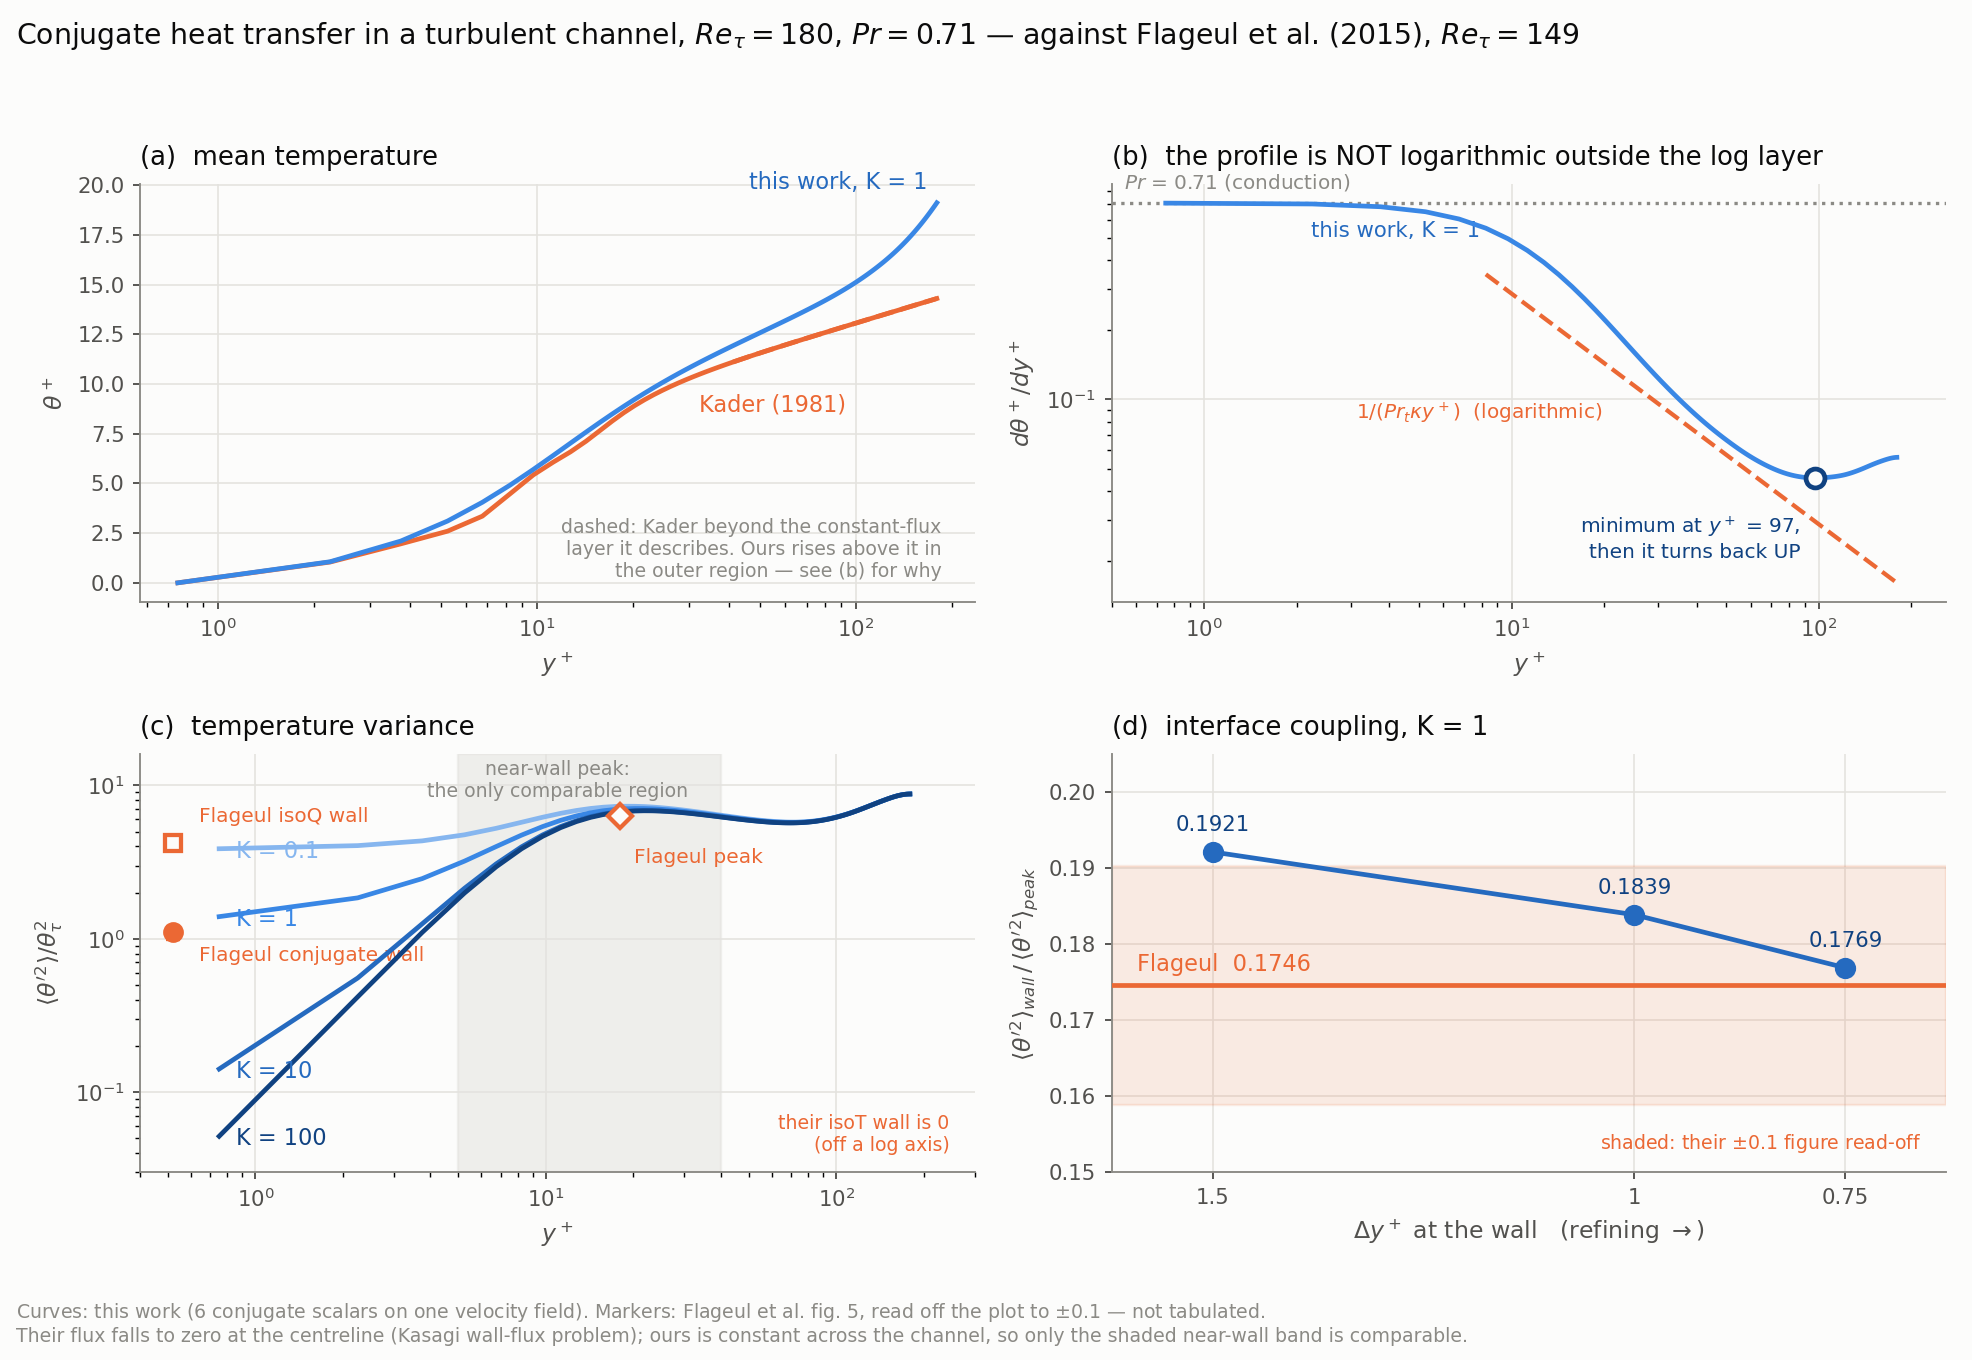
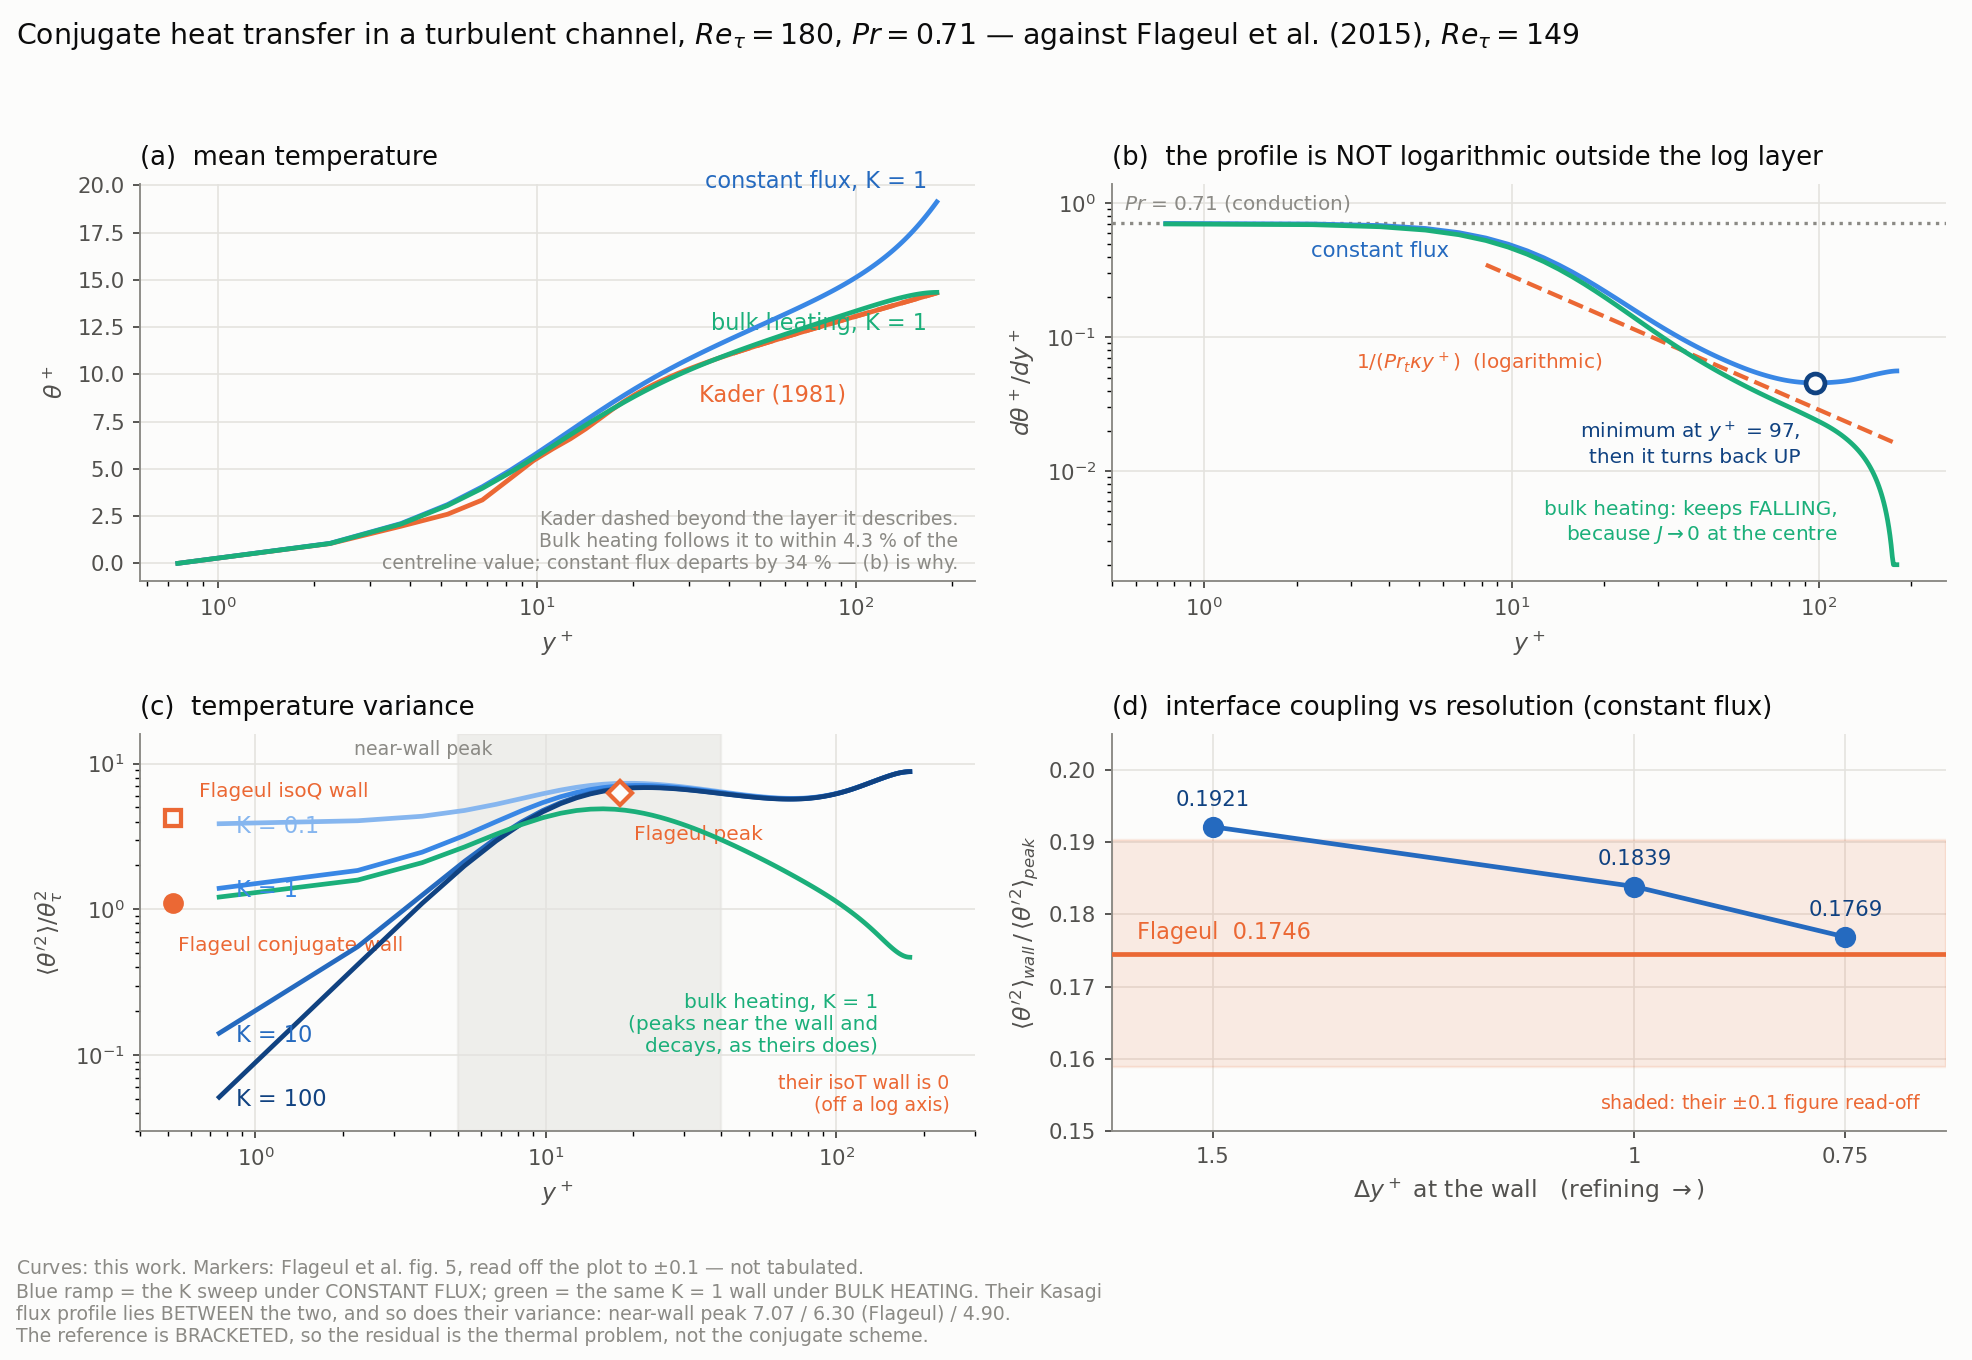
Conjugate CHT figure: both thermal problems, and Kader measured
cht_validation.png was built for the constant-flux campaign and still carried
its framing ("only the shaded near-wall band is comparable"), which the
bulk-heating run supersedes. It now draws both problems wherever they differ,
so the bracketing of Flageul is visible rather than asserted: in (c) their peak
marker falls BETWEEN the constant-flux K = 1 curve and the bulk-heating one.

A result that came out of drawing them together, measured not asserted: the
bulk-heated mean follows KADER to within 4.3 % of the centreline value over the
whole profile (2.2 % beyond y+ 30), while the constant-flux one departs by
34 % in the outer region. That is the reverse of what Kader's derivation
suggests, and the reason is that the correlation is FITTED to channel and pipe
data whose flux decays toward the centre -- so it describes the bulk-heated
channel, not the literally constant-flux one.

Fixed while plotting: theta+ and its slope came out NEGATIVE for the bulk case,
because that fluid is hotter than its wall -- the opposite sense from constant
flux, where the profile falls inward. Both are now measured along the direction
heat flows, which is exact here since each profile is monotone from its wall and
leaves the constant-flux curves untouched. Panel (d) is relabelled as what it
is (the constant-flux campaign's resolution study), the caption rewritten, and
the third series hue validated with the dataviz palette checker.

diff --git a/validation/conjugate/cht/plot_cht.py b/validation/conjugate/cht/plot_cht.py
@@ -23,12 +23,14 @@ WITH AN UNCERTAINTY BAR and never as a curve: drawing a reference line through
 four eyeballed points would dress up a reading as data.
 
 AND THE COMPARISON TRAP THIS FIGURE MAKES VISIBLE. Their thermal problem is
-Kasagi's wall-flux formulation, whose flux falls to zero at the
-centreline; ours holds the flux CONSTANT across the channel. So their variance
-decays toward the centre and ours does not -- panel (b) shows both, and the
-near-wall peak (shaded band) is the only place the two are comparable. The
-first pass at this comparison took max() over the whole channel and so
-compared our centreline against their near-wall peak.
+Kasagi's wall-flux formulation, whose flux falls to zero at the centreline. Two
+of ours are drawn: the CONSTANT-FLUX campaign, whose flux is the same at every
+height so its variance never stops rising, and the BULK-HEATING one (dJ/dy = S),
+whose flux vanishes at the centre as theirs does and which therefore peaks near
+the wall and decays. Flageul lies between them -- see the caption. The first
+pass at this comparison took max() over the whole channel and so compared our
+centreline against their near-wall peak; the shaded band is where the
+constant-flux curves may be read.
 """
 
 from __future__ import annotations
@@ -61,6 +63,7 @@ RAMP = ["#86b6ef", "#3987e5", "#256abf", "#104281"]
 INK, INK2, MUTED = "#0b0b0b", "#52514e", "#8b8a85"
 SURFACE = "#fcfcfb"
 ACCENT = "#eb6834"          # the reference, a different job -> a different hue
+OTHER  = "#1baf7a"          # the OTHER thermal problem: a third job, third hue
 GRID = "#e4e3df"
 
 
@@ -106,12 +109,17 @@ def main():
     ap = argparse.ArgumentParser(description=__doc__,
                                  formatter_class=argparse.RawDescriptionHelpFormatter)
     ap.add_argument("--stats", default="cht_stats.h5")
+    ap.add_argument("--bulk", default="bulk_stats.h5",
+                    help="the BULK-HEATING campaign (dJ/dy = S). Drawn beside "
+                         "the constant-flux one wherever the two differ, "
+                         "because Flageul's flux profile lies between them.")
     ap.add_argument("--yconv", nargs="*", default=["yc1p5_stats.h5", "yc1p0_stats.h5", "yc0p75_stats.h5"])
     ap.add_argument("--dyp", nargs="*", type=float, default=[1.5, 1.0, 0.75])
     ap.add_argument("--out", default="cht_validation.png")
     a = ap.parse_args()
 
     sweep = load(a.stats)
+    bulk = load(a.bulk) if os.path.exists(a.bulk) else None
     # the four K values with alpha_s = 1 (a1, k1, a2, a3): one clean decade
     # ladder, and every one of them converged (see the README's reseed note)
     show = [("a1", 3, 0.1), ("k1", 0, 1.0), ("a2", 4, 10.0), ("a3", 5, 100.0)]
@@ -137,13 +145,28 @@ def main():
     A.semilogx(yp, kd, "-", color=ACCENT, lw=2.0, zorder=3)
     A.semilogx(yp[yp > 40], kd[yp > 40], "--", color=ACCENT, lw=2.0, zorder=3)
     A.semilogx(yp, thp, "-", color=RAMP[1], lw=2.0, zorder=4)
-    A.annotate("this work, K = 1", xy=(yp[-1], thp[-1]), xytext=(-4, 6),
+    A.annotate("constant flux, K = 1", xy=(yp[-1], thp[-1]), xytext=(-4, 6),
                textcoords="offset points", ha="right", color=RAMP[2], fontsize=9.5)
+    if bulk is not None:
+        db = bulk[0]
+        ypb, mb = half(db, db["mean"])
+        # the bulk-heated fluid is HOTTER than its wall, the opposite
+        # sense; abs() measures both along the direction heat flows and
+        # is exact here because each profile is monotone from its wall.
+        thb = np.abs(mb - db["mean"][db["i0"]]) / db["ttau"]
+        A.semilogx(ypb, thb, "-", color=OTHER, lw=2.0, zorder=4)
+        A.annotate("bulk heating, K = 1", xy=(ypb[-1], thb[-1]), xytext=(-4, -16),
+                   textcoords="offset points", ha="right", color=OTHER, fontsize=9.5)
     A.annotate("Kader (1981)", xy=(30, kader(np.array([30.0]))[0] - kader(np.array([yp[0]]))[0]),
                xytext=(4, -14), textcoords="offset points", color=ACCENT, fontsize=9.5)
-    A.annotate("dashed: Kader beyond the constant-flux\nlayer it describes. Ours rises above it in\n"
-               "the outer region — see (b) for why",
-               xy=(0.96, 0.05), xycoords="axes fraction", color=MUTED,
+    # measured, not asserted: max|theta+ - Kader| over the whole profile.
+    # Kader is FITTED to channel/pipe data, whose flux decays in the outer
+    # region -- so it matches the bulk-heated channel, not the literally
+    # constant-flux one, which is the reverse of what its derivation suggests.
+    A.annotate("Kader dashed beyond the layer it describes.\n"
+               "Bulk heating follows it to within 4.3 % of the\n"
+               "centreline value; constant flux departs by 34 % — (b) is why.",
+               xy=(0.98, 0.02), xycoords="axes fraction", color=MUTED,
                fontsize=8, ha="right", va="bottom")
     A.set_xlabel("$y^+$", color=INK2, fontsize=10)
     A.set_ylabel(r"$\theta^+$", color=INK2, fontsize=10)
@@ -178,8 +201,20 @@ def main():
     Sx.annotate("$1/(Pr_t\\kappa y^+)$  (logarithmic)", xy=(22, 1/(0.85*0.41*22)),
                 xytext=(-6, -20), textcoords="offset points", ha="right",
                 color=ACCENT, fontsize=8.5)
-    Sx.annotate("this work, K = 1", xy=(2.0, slope[int(np.argmin(np.abs(yp-2.0)))]),
+    Sx.annotate("constant flux", xy=(2.0, slope[int(np.argmin(np.abs(yp-2.0)))]),
                 xytext=(6, -14), textcoords="offset points", color=RAMP[2], fontsize=9)
+    if bulk is not None:
+        db = bulk[0]
+        ypb, mb = half(db, db["mean"])
+        sb = np.abs(np.gradient(np.abs(mb - db["mean"][db["i0"]]) / db["ttau"], ypb))
+        Sx.loglog(ypb, np.maximum(sb, 2e-3), "-", color=OTHER, lw=2.0, zorder=5)
+        Sx.set_ylim(1.5e-3, 1.4)
+        Sx.annotate("bulk heating: keeps FALLING,\n"
+                    "because $J\\rightarrow0$ at the centre",
+                    xy=(ypb[int(0.82*len(ypb))],
+                        max(sb[int(0.82*len(ypb))], 2e-3)), xytext=(-14, -30),
+                    textcoords="offset points", ha="right", color=OTHER,
+                    fontsize=8.5)
     Sx.set_xlabel("$y^+$", color=INK2, fontsize=10)
     Sx.set_ylabel(r"$d\theta^+/dy^+$", color=INK2, fontsize=10)
     Sx.set_title("(b)  the profile is NOT logarithmic outside the log layer",
@@ -189,7 +224,7 @@ def main():
     # ---- (c) the variance, with Flageul's read-off values -------------------
     B = ax[2]
     B.axvspan(5, 40, color=GRID, alpha=0.55, zorder=0)
-    B.annotate("near-wall peak:\nthe only comparable region", xy=(0.5, 0.985),
+    B.annotate("near-wall peak", xy=(0.34, 0.985),
                xycoords="axes fraction", color=MUTED, fontsize=8,
                ha="center", va="top")
     for (nm, idx, K), c in zip(show, RAMP):
@@ -199,6 +234,18 @@ def main():
         B.annotate(f"K = {K:g}", xy=(yp[0], v[0]), xytext=(7, -1),
                    textcoords="offset points", ha="left", va="center",
                    color=c, fontsize=9.5, zorder=7)
+    # The SAME wall (K = 1) under the other thermal problem. Flageul's peak
+    # falls between the two curves, which is the whole comparison: their flux
+    # profile lies between a constant one and our linear one.
+    if bulk is not None:
+        db = bulk[0]
+        ypb, vb = half(db, db["var"])
+        B.loglog(ypb, vb, "-", color=OTHER, lw=2.0, zorder=5)
+        B.annotate("bulk heating, K = 1\n(peaks near the wall and\ndecays,"
+                   " as theirs does)",
+                   xy=(150, vb[int(np.argmin(np.abs(ypb - 150)))]),
+                   xytext=(-4, -46), textcoords="offset points", ha="right",
+                   color=OTHER, fontsize=8.5, zorder=7)
     # the reference: markers with an uncertainty bar, never a curve
     B.errorbar([0.52], [FL["wall_isoQ"]], yerr=FL["err"], fmt="s", ms=7,
                color=ACCENT, mfc=SURFACE, mew=1.8, capsize=3, zorder=6)
@@ -209,7 +256,7 @@ def main():
     B.annotate("Flageul isoQ wall", xy=(0.52, FL["wall_isoQ"]), xytext=(11, 9),
                textcoords="offset points", ha="left", color=ACCENT, fontsize=8.5)
     B.annotate("Flageul conjugate wall", xy=(0.52, FL["wall_conjug"]),
-               xytext=(11, -12), textcoords="offset points", ha="left",
+               xytext=(2, -20), textcoords="offset points", ha="left",
                color=ACCENT, fontsize=8.5)
     B.annotate("Flageul peak", xy=(FL["peak_yp"], FL["peak"]), xytext=(6, -20),
                textcoords="offset points", ha="left", color=ACCENT, fontsize=8.5)
@@ -253,19 +300,20 @@ def main():
     C.set_xlabel(r"$\Delta y^+$ at the wall   (refining $\rightarrow$)", color=INK2, fontsize=10)
     C.set_ylabel(r"$\langle\theta'^2\rangle_{wall}\,/\,\langle\theta'^2\rangle_{peak}$",
                  color=INK2, fontsize=10)
-    C.set_title("(d)  interface coupling, K = 1", color=INK, fontsize=11, loc="left", pad=8)
+    C.set_title("(d)  interface coupling vs resolution (constant flux)",
+                color=INK, fontsize=11, loc="left", pad=8)
     C.set_ylim(0.15, 0.205)
 
     fig.suptitle("Conjugate heat transfer in a turbulent channel, $Re_\\tau=180$, $Pr=0.71$ "
                  "— against Flageul et al. (2015), $Re_\\tau=149$",
                  color=INK, fontsize=12, x=0.008, ha="left", y=0.985)
     fig.text(0.008, 0.010,
-             "Curves: this work (6 conjugate scalars on one velocity field). Markers: Flageul et al. fig. 5, "
-             "read off the plot to $\\pm0.1$ — not tabulated.\n"
-             "Their flux falls to zero at the centreline (Kasagi wall-flux problem); ours is constant "
-             "across the channel, so only the shaded near-wall band is comparable.",
+             "Curves: this work. Markers: Flageul et al. fig. 5, read off the plot to $\\pm0.1$ — not tabulated.\n"
+             "Blue ramp = the K sweep under CONSTANT FLUX; green = the same K = 1 wall under BULK HEATING. Their Kasagi\n"
+             "flux profile lies BETWEEN the two, and so does their variance: near-wall peak 7.07 / 6.30 (Flageul) / 4.90.\n"
+             "The reference is BRACKETED, so the residual is the thermal problem, not the conjugate scheme.",
              color=MUTED, fontsize=8, ha="left", va="bottom")
-    fig.tight_layout(rect=(0, 0.055, 1, 0.955))
+    fig.tight_layout(rect=(0, 0.085, 1, 0.955))
     fig.savefig(a.out, dpi=170, facecolor=SURFACE)
     print(f"{a.out} written")
 

diff --git a/validation/conjugate/cht/README.md b/validation/conjugate/cht/README.md
@@ -432,3 +432,24 @@ both offset-free, so nothing that is compared with the literature depends on
 it. `check_cht.py thermal` still exits FAIL on gate (2), the effusivity
 collapse (15.8 %/39.7 %) — the known and documented physics, unchanged from
 campaign 2, not a bulk-heating result.
+
+## The main figure
+
+`cht_validation.png` (regenerated by `./plot_cht.py`) now carries BOTH thermal
+problems, since the comparison only means something with the two together:
+
+* **(a)** the mean. A result that came out of drawing them together: the
+  bulk-heated profile follows **Kader to within 4.3 %** of the centreline value
+  over the whole profile (2.2 % beyond y⁺ 30), while the constant-flux one
+  departs by **34 %** in the outer region. That is the reverse of what Kader's
+  derivation suggests — the correlation is FITTED to channel and pipe data,
+  whose flux decays toward the centre, so it describes the bulk-heated channel
+  rather than the literally constant-flux one.
+* **(b)** why: the constant-flux slope has a minimum at y⁺ = 97 and turns back
+  up, whereas the bulk-heating slope keeps falling because `J → 0` at the
+  centre.
+* **(c)** the variance, with the K ladder under constant flux and the same
+  K = 1 wall under bulk heating. Flageul's peak marker falls **between** the
+  two curves — the bracketing, drawn.
+* **(d)** unchanged, and now labelled as what it is: the wall-resolution
+  convergence of the CONSTANT-FLUX campaign.
